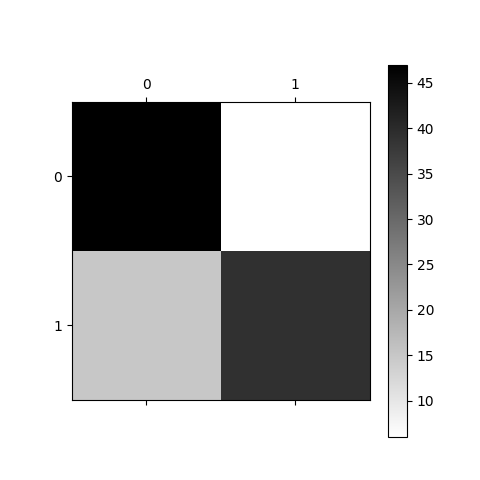
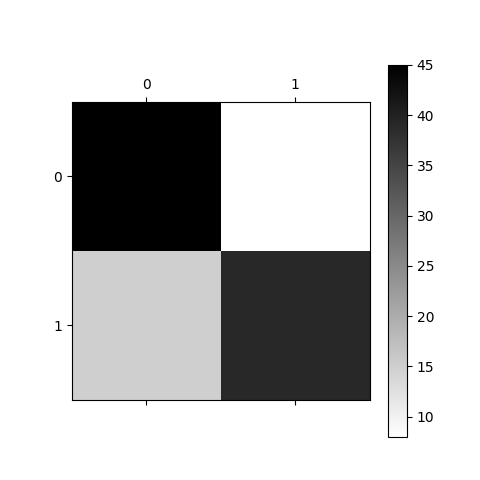
utterance level svr rf

diff --git a/SVR_model.py b/SVR_model.py
@@ -485,43 +485,41 @@ def linguistic_model():
         data_b = data[['speaker', 'transcript_without_repetition', 'dx', 'mmse']]
         data_c = data[['speaker', 'transcript_without_retracing', 'dx', 'mmse']]
         for condition, df in zip(['all_text', 'wo repetition', 'wo retracing'], [data_a, data_b, data_c]):
-            df = df.sample(frac=1)
+            df = df.sample(frac=1, random_state=42)
             print("#" * 20, condition)
             df.columns = ['speaker', 'utterances', 'dx', 'mmse']
-            acc_set = []
-            f1_set = []
+            acc_set1 = []
+            f1_set1 = []
             target_set = []
-            pred_set = []
+            pred_set1 = []
+
+            acc_set2 = []
+            f1_set2 = []
+            pred_set2 = []
             for df_train, df_test in speaker_split(df):
                 ytrain = df_train.dx.to_numpy()
                 ytest = df_test.dx.to_numpy()
                 xtrain, xtest, vocab = generate_ngrams(df_train, df_test)
-                xtrain = pd.DataFrame(xtrain.toarray())
-                xtest = pd.DataFrame(xtest.toarray())
-                xtrain = xtrain.fillna(xtrain.mean())
-                vocab = list(xtrain.columns)
-                df_feature = feature_RF2(xtrain, ytrain, vocab)
-
-                df_feature_column = df_feature["feature_no"].tolist()
-                xtrain = xtrain.loc[:, df_feature_column]
-                xtest = xtest.loc[:, df_feature_column]
-                xtrain = xtrain.to_numpy()
-                xtest = xtest.to_numpy()
-                acc, f1, target, pred = Classification(xtrain, ytrain, xtest, ytest)
-                print("Accuracy: ", acc, "F1: ", f1)
+                xtrain = xtrain.toarray()
+                xtest = xtest.toarray()
+                acc1, acc2, target, pred1, pred2 = Classification(xtrain, ytrain, xtest, ytest)
+                # print("Accuracy: ", acc, "F1: ", f1)
                 # print("Confusion Matrix: \n", conf)
-                acc_set.append(acc)
-                f1_set.append(acc)
-                target_set += target
-                pred_set += pred
+                target_set += [target]
+                pred_set1 += [pred1]
+                pred_set2 += [pred2]
             print("*****RESULTS*****")
-            print("AVG Accuracy: ", np.mean(acc_set))
-            print("AVG F1: ", np.mean(f1_set))
-            print("Total Acc: ", accuracy_score(target_set, pred_set))
-            print("Total F1: ", f1_score(target_set, pred_set))
-            cm = confusion_matrix(target_set, pred_set)
+            print("SVR: ")
+            print("Total Acc: ", accuracy_score(target_set, pred_set1))
+            print("Total F1: ", f1_score(target_set, pred_set1))
+            cm = confusion_matrix(target_set, pred_set1)
             print("Total Confusion Matrix: \n", cm)
-            plot_confusion_matrix(cm, title=condition)
+
+            print("Random Forest: ")
+            print("Total Acc: ", accuracy_score(target_set, pred_set2))
+            print("Total F1: ", f1_score(target_set, pred_set2))
+            cm = confusion_matrix(target_set, pred_set2)
+            print("Total Confusion Matrix: \n", cm)
             # save_feature(df_feature, "important_audio_feature")
 
             # for modelname, acc, f1, conf in results:
@@ -639,13 +637,18 @@ def Classification(xtrain, ytrain, xtest, ytest):
     dt_pred = dt.predict(xtest)
     rf_pred = rf.predict(xtest)
     target = np.argmax(np.bincount(ytest))
+    pred_svr = np.argmax(np.bincount(svr_pred))
+    if pred_svr == target:
+        svr_acc = 1
+    else:
+        svr_acc = 0
     pred = np.argmax(np.bincount(rf_pred))
     if pred == target:
-        acc = 1
+        rf_acc = 1
     else:
-        acc = 0
+        rf_acc = 0
 
-    return acc, 0 + acc, [target], [pred]
+    return svr_acc, rf_acc, target, pred_svr, pred
 
     # return list(zip(['LDA', 'SVR', 'DT', 'RF'],
     #                 [lda_acc, svr_acc, dt_acc, rf_acc],
